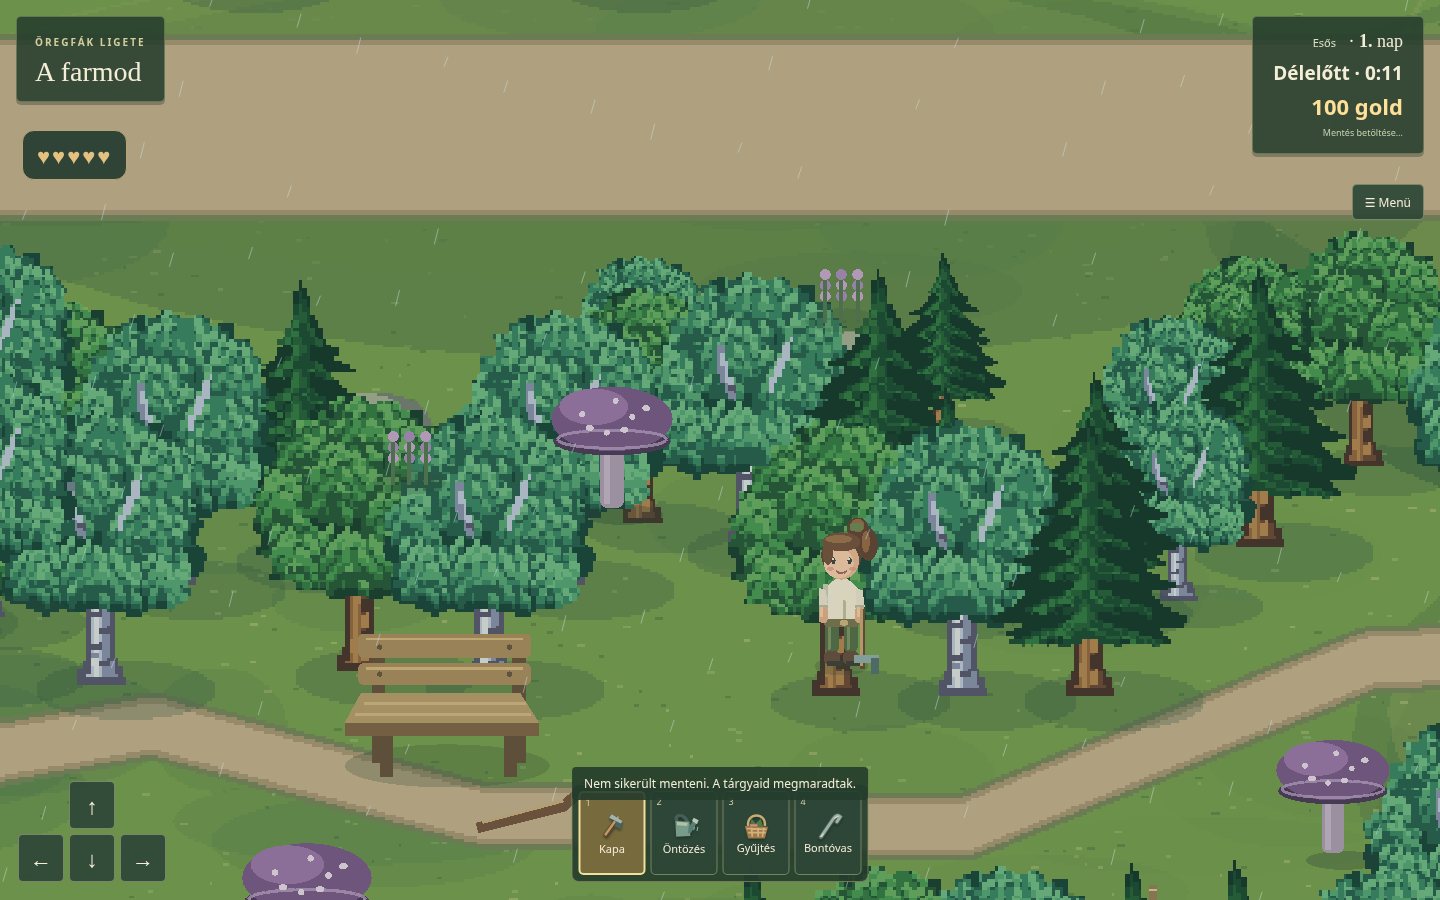
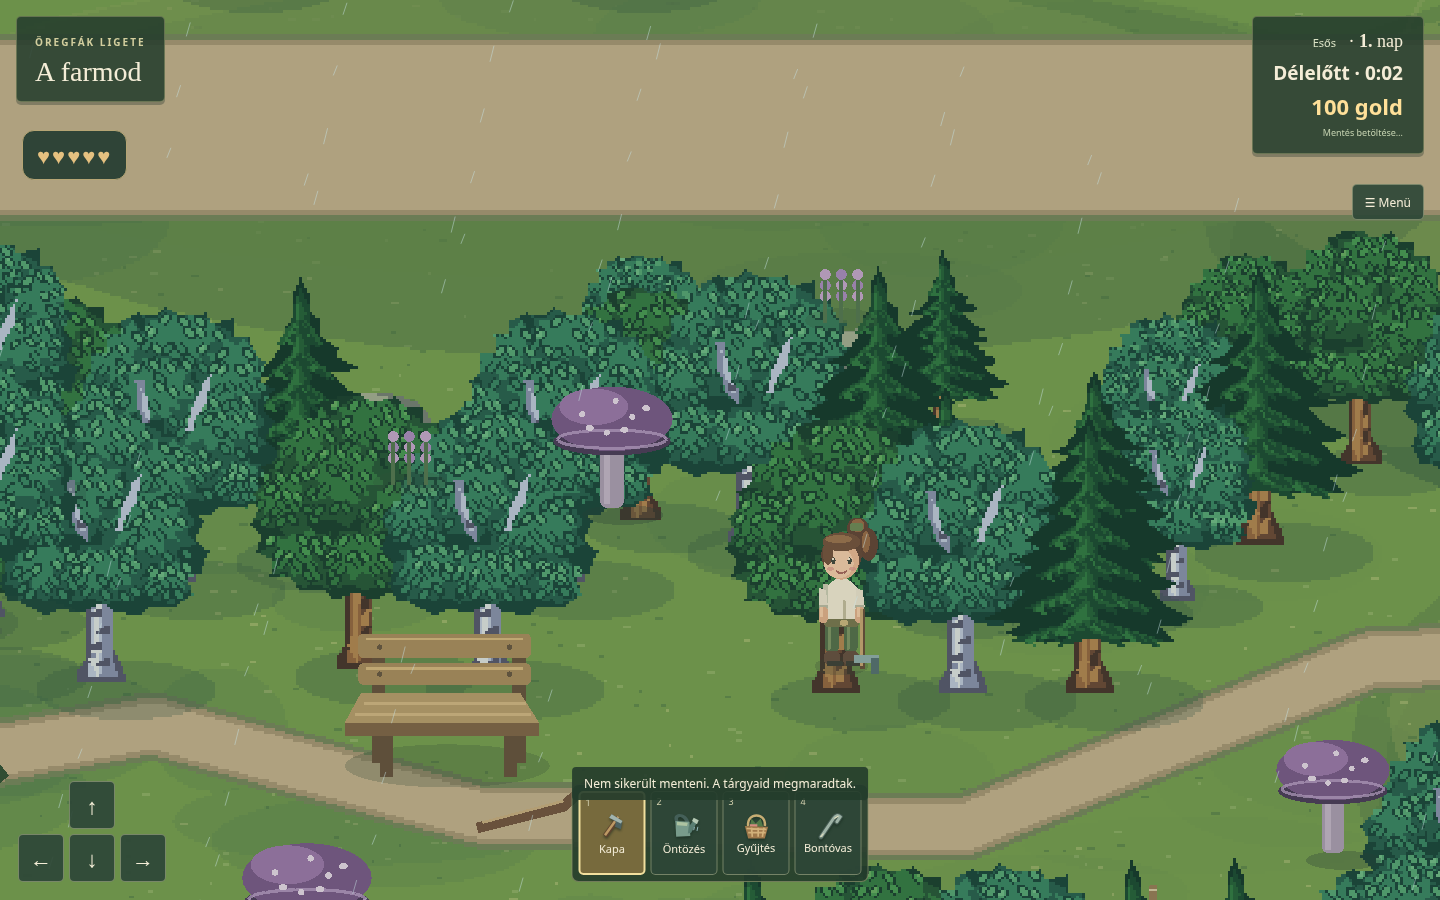
Preserve full dark leaf outlines above all crown shading

diff --git a/src/woodland-tree.ts b/src/woodland-tree.ts
@@ -6,9 +6,9 @@ import type Phaser from 'phaser';
 export function drawWoodlandTree(g:Phaser.GameObjects.Graphics,random:()=>number,x:number,y:number,kind:number,s=1){
  if(!natureTreeClear(x,y,s))return;
  let seed=0;if(kind!==2)for(let i=0;i<264;i++)seed=(seed+Math.floor(random()*65535))>>>0;
- const pixel=1.5,width=56,height=70,data=new Int32Array(width*height).fill(-1);
+ const pixel=1,width=84,height=105,data=new Int32Array(width*height).fill(-1);
  const hash=(a:number,b:number)=>((Math.imul(a+seed,374761393)^Math.imul(b+19,668265263))>>>0);
- const put=(xx:number,yy:number,c:number)=>{const a=Math.round(xx/pixel)+28,b=Math.round((yy+99)/pixel);if(a>=0&&a<width&&b>=0&&b<height)data[b*width+a]=c;};
+ const put=(xx:number,yy:number,c:number)=>{const a=Math.round(xx/pixel)+42,b=Math.round((yy+99)/pixel);if(a>=0&&a<width&&b>=0&&b<height)data[b*width+a]=c;};
  const shape=(points:number[],color:number)=>{
   const ys=points.filter((_,i)=>i%2),min=Math.min(...ys),max=Math.max(...ys);
   for(let row=Math.ceil((min+99)/pixel);row<=Math.floor((max+99)/pixel);row++){
@@ -65,23 +65,24 @@ export function drawWoodlandTree(g:Phaser.GameObjects.Graphics,random:()=>number
    // Irregular interlocking leaf fingers: no circular base or concentric highlight.
    shape(p([-.9,.15,-1,-.2,-.7,-.3,-.8,-.65,-.45,-.65,-.4,-.95,0,-.85,.25,-1,.45,-.7,.8,-.75,.75,-.4,1,-.2,.85,.15,1,.45,.65,.55,.7,.9,.3,.8,.1,1,-.2,.8,-.6,.9,-.55,.55,-.95,.5]),palette[1]);
    shape(p([-.85,-.15,-.55,-.25,-.65,-.55,-.3,-.5,-.25,-.8,.1,-.7,.3,-.85,.45,-.55,.75,-.55,.65,-.2,.85,0,.55,.1,.7,.35,.35,.3,.4,.6,.05,.4,-.15,.6,-.3,.3,-.65,.4,-.55,.05]),palette[2]);
-   // Individual pointed leaves follow staggered sprays, with a dark lower edge.
-   // Consistent shapes replace the former cross-shaped/random colour flecks.
-   for(let row=0;row<4;row++)for(let col=0;col<5;col++){
-    const a=hash(k*31+row*5+col,k+7);
-    if(a%11===0)continue;
-    const xx=cx+(col-2)*rx*.33+(row%2?1.5:0),yy=cy+(row-1.7)*ry*.4+((col+row)%2)*1.5;
-    const length=birch?4.5:6,half=length/2,lean=(col<2?-1:1)*3;
-    const leaf=[xx-half,yy,xx-1.5,yy-3,xx+1.5,yy+lean-3,xx+half,yy+lean,xx+1.5,yy+lean+1.5,xx-1.5,yy+3];
-    shape(leaf.map((v,i)=>i%2?v+1.5:v),palette[1]);
-    const lit=row<2?3:2;
-    shape(leaf,palette[lit]);
-    shape([xx-half,yy,xx-1.5,yy-3,xx+1.5,yy+lean-3,xx+half,yy+lean,xx,yy+lean*.5],palette[a%7===0?4:Math.min(4,lit+1)]);
-   }
-   // Narrow recesses retain the volume between sprays.
-   shape(p([-.3,.25,-.1,.35,.05,.3,.2,.4,.05,.5,-.15,.45,-.3,.55,-.4,.4]),palette[1]);
-
   }
+  // Finish all crown volumes first, then draw fully outlined little leaves on top.
+  // Later volume patches must not paint over the outlines of earlier leaves.
+  for(let k=0;k<patches.length;k++){
+   const [cx,cy,rx,ry]=patches[k];
+   for(let row=0;row<4;row++)for(let col=0;col<5;col++){
+    const a=hash(k*31+row*5+col,k+7);if(a%7===0)continue;
+    const xx=Math.round(cx+(col-2)*rx*.34+(row%2?2:0)+(a%3)-1),yy=Math.round(cy+(row-1.5)*ry*.39+(col%2)+((a>>>5)%3)-1);
+    const angle=(col<2?-1:1)*(.45+(a%3)*.18),cos=Math.cos(angle),sin=Math.sin(angle);
+    const transform=(points:number[])=>points.map((v,i)=>i%2?yy+points[i-1]*sin+v*cos:xx+v*cos-points[i+1]*sin);
+    const leaf=(length:number,height:number)=>transform([-length,0,-1,-height,1,-height,length,0,1,height,-1,height]);
+    // A one-pixel dark rim all around, not just a drop shadow.
+    shape(leaf(3,2),palette[0]);
+    shape(leaf(2,1),palette[row<2?3:2]);
+    if(row<2&&a%3===0)shape(transform([-1,-1,1,-1,0,0,-1,0]),palette[4]);
+   }
+  }
+
   if(birch){
    // Small real gaps preserve the pale branching visible in the reference.
    shape([-13,-70,-10,-70,-9,-58,-5,-53,-5,-47,-9,-52,-12,-60],bark[1]);
@@ -93,5 +94,5 @@ export function drawWoodlandTree(g:Phaser.GameObjects.Graphics,random:()=>number
   for(let i=0;i<data.length;i++)if(!crownMask[i])data[i]=-1;
  }
  g.fillStyle(0x294d3a,.25).fillEllipse(x+10*s,y+8*s,67*s,22*s);
- for(let row=0;row<height;row++)for(let col=0;col<width;){const c=data[row*width+col];let end=col+1;while(end<width&&data[row*width+end]===c)end++;if(c!==-1)g.fillStyle(c).fillRect(x+(col-28)*pixel*s,y+(row*pixel-99)*s,(end-col)*pixel*s,pixel*s);col=end;}
+ for(let row=0;row<height;row++)for(let col=0;col<width;){const c=data[row*width+col];let end=col+1;while(end<width&&data[row*width+end]===c)end++;if(c!==-1)g.fillStyle(c).fillRect(x+(col-42)*pixel*s,y+(row*pixel-99)*s,(end-col)*pixel*s,pixel*s);col=end;}
 }

diff --git a/docs/qa/0.3.0-reference-tree-redraw.md b/docs/qa/0.3.0-reference-tree-redraw.md
@@ -16,3 +16,9 @@ A felhasználó a mostani irány megtartásával újabb finomítást kért. A lo
 Újabb finomítási kör: a világos levélmezőkbe keskeny belső redők kerülnek, az alsó levélszéleket külön lelógó levélcsomók tagolják. A fenyő ágain sűrűbbek a tűlevélcsoportok. A nyír világos kérgén középre is benyúló, jól látható sötét sebek vannak. A referencia-irány, a sziluett, a hely és a méret megmarad. Ellenőrzés: teljes teszt és build, valamint friss normál és összehasonlító böngészős kép.
 
 A felhasználó pontosítása szerint a referencia levelei szabályosabban elkülönülnek. A lombos fák apró kereszt/színfolt motívumai és összefolyó világos redői helyett eltolt sorokba rendezett, hegyes levélformák készülnek, külön sötét alsó éllel és világos levélféllel. A levélirány a lombcsomó két oldalán eltér. A nyír levelei kisebbek a másik lombos fáénál. A fenyő, a korona sziluettje, a helyadatok és a méret most változatlan. Friss összehasonlító és normál játékbeli képen ellenőrizve; teljes teszt és build futtatva.
+
+## Összefolyó levelek javítása
+
+A felhasználó szerint az új változat ismét túl pacás volt, és hiányoztak a kis levelek sötét szélei. A rajzolási sorrendben a későbbi lombtömegek részben felülrajzolták a korábbi levelek szegélyét. Most előbb valamennyi lombtömeg elkészül, majd az összes külön levél. A kis levelek teljes sötét szegélyt és keskeny zöld belsőt kapnak, a korábbi nagy világos féllevelek megszűnnek. A finomabb belső pixelrács a világban elfoglalt méretet nem növeli: a vászon továbbra is 84×105 világegység, az elhelyezési és ütközési adatok változatlanok. A korona eredeti maszkja továbbra is korlátozza a levélrajzot. A közös véletlenszám-fogyasztás és a statikus rajzolás megmarad.
+
+Teljes teszt és build, valamint friss összehasonlító és erdei kép ellenőrzi a végleges módosítást. A képek elkülönített böngészőben készültek; új játékon belüli próbamód nincs.
